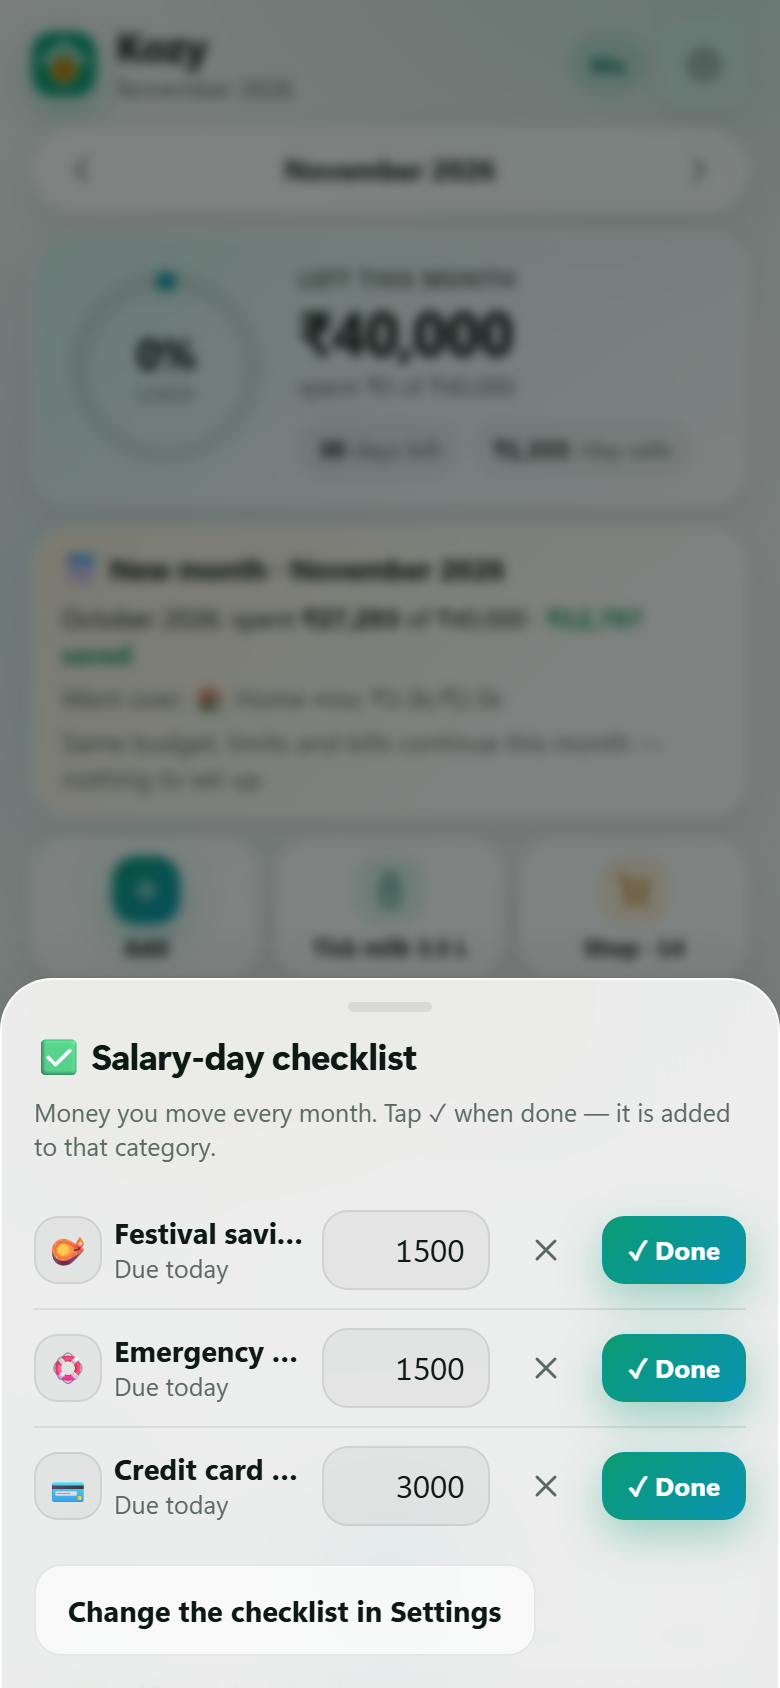
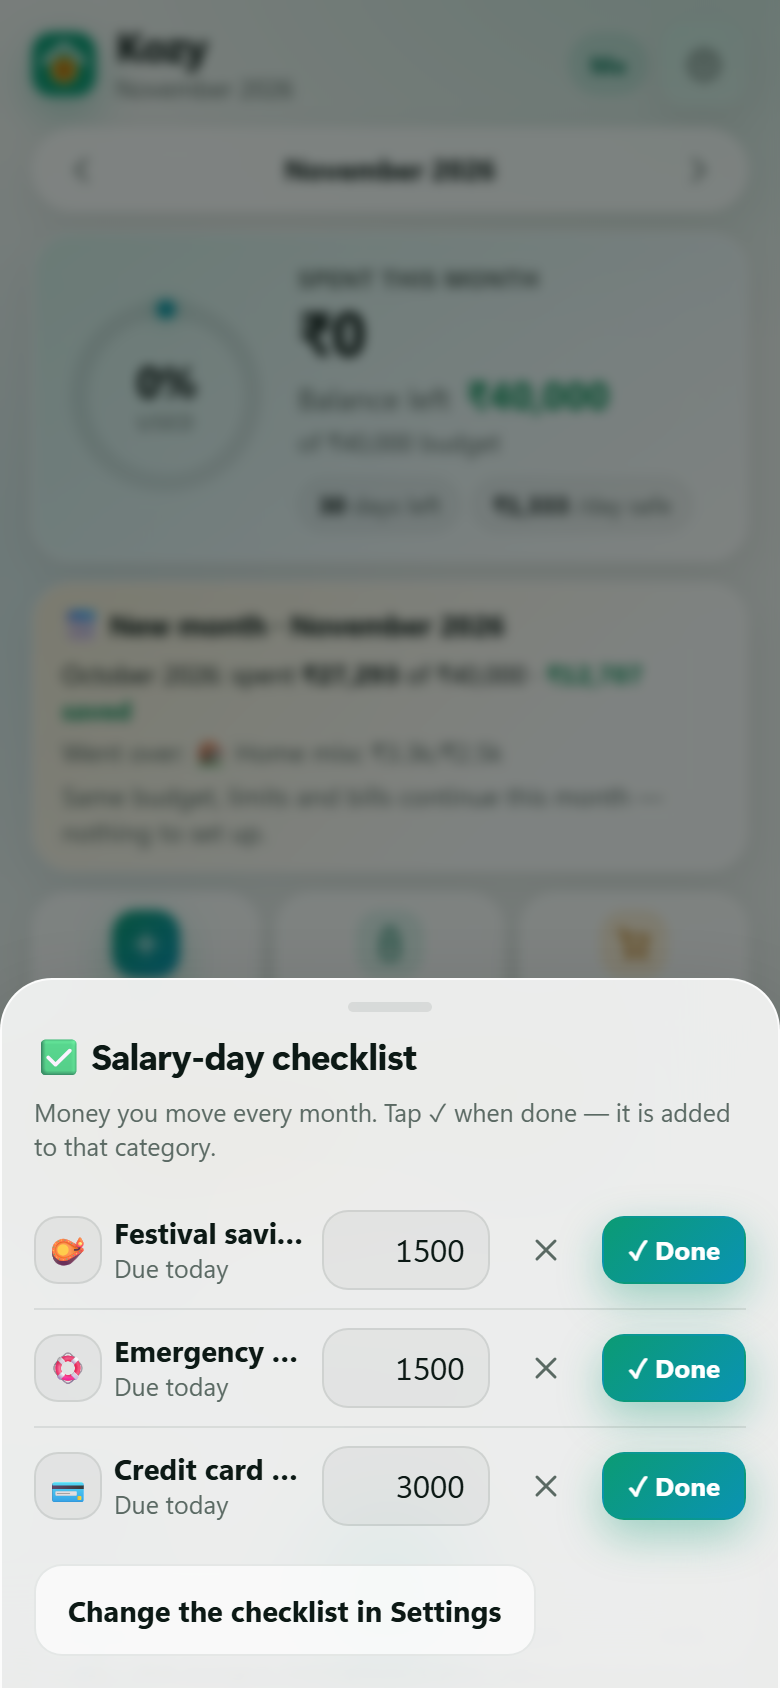
v2.3.0: Home shows spent then balance left; Home milk opens the day screen (Save) instead of auto-ticking; milkman to-pay below the calendar

diff --git a/tests/kozy.spec.js b/tests/kozy.spec.js
@@ -90,11 +90,15 @@ test('home: previous / next month, then back to this month; no scan option anywh
   await expect(page.locator('[data-test="home-month"]')).toContainText('October 2026');
   await page.locator('[data-test="home-month"] [data-act="hmonth-prev"]').click();
   await expect(page.locator('[data-test="home-month"]')).toContainText('September 2026');
-  await expect(page.locator('.hero .label')).toHaveText('Saved in September 2026');
+  await expect(page.locator('.hero .label')).toHaveText('Spent in September 2026');
+  await expect(page.locator('[data-test="left-label"]')).toHaveText('Saved');
+  await expect(page.locator('[data-test="spent"]')).toHaveText('₹0');
   await expect(page.locator('[data-test="left"]')).toHaveText('₹40,000'); // nothing spent in September
   await expect(page.locator('[data-test="days-left"]')).toHaveCount(0);
   await page.locator('[data-test="home-month"] [data-act="hmonth-next"]').click();
-  await expect(page.locator('.hero .label')).toHaveText('Left this month');
+  await expect(page.locator('.hero .label')).toHaveText('Spent this month');
+  await expect(page.locator('[data-test="left-label"]')).toHaveText('Balance left');
+  await expect(page.locator('[data-test="spent"]')).toHaveText('₹250');
   await expect(page.locator('[data-test="left"]')).toHaveText('₹39,750');
   // leaving Home and coming back starts on this month again
   await page.locator('[data-test="home-month"] [data-act="hmonth-prev"]').click();
@@ -613,7 +617,9 @@ test('edit any entry: kitchen purchase, sabzi price, Today pill, Recent rows (sp
 
   // Recent on Home: tap rows to edit
   await go(page, T, 'home');
-  await page.locator('[data-test="chip-milk"]').click();
+  await page.locator('[data-test="chip-milk"]').click(); // opens the milk screen; nothing is logged until Save
+  await expect(page.locator('[data-test="milk-day"]')).toBeVisible();
+  await page.locator('[data-test="milk-day"] [data-save]').click();
   await addSpend(page, 150, 'Home misc', 'Cash', 'Tape');
   await page.locator('[data-test="recent"] [data-open="spend"]').first().click();
   await expect(page.locator('.sheet .sheet-title')).toHaveText('Edit spend');
@@ -740,4 +746,40 @@ test('next month: new-month card on the 1st, limits from usual spend, unpaid mil
   await page.locator('[data-test="use-usual"]').click();
   const travel = page.locator('.limit-row', { has: page.locator('input[value="Office travel"]') }).locator('input[name="limit"]');
   expect(Number(await travel.inputValue())).not.toBe(5000);
+});
+
+test('home v2.3: spent on top with balance below; milk opens the day screen (no auto-tick); to-pay sits below the calendar', async ({ page }) => {
+  await fresh(page, T, 'home');
+  await addSpend(page, 1000, 'Home misc', 'Cash', 'Bulbs');
+  await expect(page.locator('[data-test="spent"]')).toHaveText('₹1,000');
+  await expect(page.locator('[data-test="left"]')).toHaveText('₹39,000');
+  // spent is above the balance line
+  const ys = await page.evaluate(() => [document.querySelector('[data-test="spent"]'), document.querySelector('[data-test="left"]')].map((e) => e.getBoundingClientRect().top));
+  expect(ys[0]).toBeLessThan(ys[1]);
+
+  // milk: one tap opens the screen, NOTHING is saved yet
+  await expect(page.locator('[data-test="chip-milk"]')).toContainText('Log milk');
+  await page.locator('[data-test="chip-milk"]').click();
+  const day = page.locator('[data-test="milk-day"]');
+  await expect(day).toBeVisible();
+  await expect(day.locator('[data-day-total]')).toContainText('3.5 L');
+  expect(await page.evaluate(async () => (await import('/js/store.js')).list('milk').length)).toBe(0);
+  // change an amount: the total follows, then Save
+  await day.locator('[name="l-cow"]').fill('2');
+  await expect(day.locator('[data-day-total]')).toContainText('4 L');
+  await day.locator('[data-save]').click();
+  await expect(page.locator('[data-test="chip-milk"]')).toContainText('Milk ✓ 4 L');
+  // tap again → same screen with today's saved amounts, to change and save
+  await page.locator('[data-test="chip-milk"]').click();
+  await expect(day.locator('[name="l-cow"]')).toHaveValue('2');
+  await day.locator('[name="l-cow"]').fill('1.5');
+  await day.locator('[data-save]').click();
+  await expect(page.locator('[data-test="chip-milk"]')).toContainText('Milk ✓ 3.5 L');
+
+  // Milk screen: the amount to pay is BELOW the calendar
+  await go(page, T, 'milk');
+  const pos = await page.evaluate(() => [document.querySelector('[data-test="calendar"]'), document.querySelector('[data-test="milk-balance"]')].map((e) => e.getBoundingClientRect().top));
+  expect(pos[0]).toBeLessThan(pos[1]);
+  await expect(page.locator('[data-test="milk-due"]')).toBeVisible();
+  await expect(page.locator('.top .sub')).toContainText('to pay');
 });

diff --git a/js/views/milk.js b/js/views/milk.js
@@ -63,6 +63,7 @@ function wireStepper(el) {
   el.querySelectorAll('[data-step]').forEach((b) => b.addEventListener('click', () => {
     const inp = b.parentElement.querySelector('input');
     inp.value = Math.max(0, Math.round(((Number(inp.value) || 0) + Number(b.dataset.step)) * 100) / 100);
+    inp.dispatchEvent(new Event('input', { bubbles: true })); // so the day total updates
   }));
 }
 
@@ -97,6 +98,7 @@ export function render() {
   const td = milk.day(t);
   const m = milk.month(state.mk);
   const w = store.canWrite();
+  const toPay = milk.ledger().balance;
 
   const first = parse(`${state.mk}-01`).getDay(); // 0 = Sunday
   const lead = (first + 6) % 7; // Monday first
@@ -112,7 +114,7 @@ export function render() {
   }
 
   return `
-  ${header('Milk log', `${milk.defaultLabel()} · ${money(s.perDay)}/day`)}
+  ${header('Milk log', `${milk.defaultLabel()} · ${money(s.perDay)}/day${toPay > 0 ? ` · to pay ${money(toPay)}` : ''}`)}
 
   ${!s.asked && store.isOwner() ? `
   <section class="card setup" data-test="milk-setup">
@@ -138,14 +140,14 @@ export function render() {
       </div>` : '<p class="muted">Today: not logged yet</p>'}`}
   </section>
 
-  ${balanceCard(w)}
-
   ${monthSwitch(state.mk)}
   <section class="card">
     <div class="cal-head">${['M', 'T', 'W', 'T', 'F', 'S', 'S'].map((d) => `<span>${d}</span>`).join('')}</div>
     <div class="cal" data-test="calendar">${cells.join('')}</div>
     <div class="cal-legend small muted"><span><i class="lg got"></i> got milk</span><span><i class="lg skip"></i> skipped</span><span>Tap a day to change</span></div>
   </section>
+
+  ${balanceCard(w)}
 
   <section class="card" data-test="milk-total">
     <div class="sum3">
@@ -169,7 +171,8 @@ export function openMilkDay(date) {
       <h2 class="sheet-title">Milk · ${dayLabel(date)}</h2>
       ${list.map((t) => `<div class="mday-row"><span class="mday-name">${t.emoji} ${esc(t.name)}<span class="muted small block">${money(t.rate)}/L</span></span>
         ${stepper(`l-${t.id}`, start[t.id] ?? 0)}</div>`).join('')}
-      <button class="btn primary" type="submit">${icon('check')} Save</button>
+      <p class="day-total" data-day-total aria-live="polite"></p>
+      <button class="btn primary" type="submit" data-save>${icon('check')} Save</button>
       <div class="row gap">
         <button type="button" class="btn ghost grow" data-skip>Skip this day</button>
         ${d ? '<button type="button" class="btn ghost grow danger-text" data-clear>Clear</button>' : ''}
@@ -177,6 +180,14 @@ export function openMilkDay(date) {
     </form>`);
   wireStepper(el);
   const f = el.querySelector('form');
+  const totalEl = el.querySelector('[data-day-total]');
+  const showTotal = () => {
+    let l = 0; let c = 0;
+    for (const t of list) { const v = Number(f[`l-${t.id}`].value) || 0; l += v; c += v * Number(t.rate || 0); }
+    totalEl.innerHTML = `Today: <b>${number(l)} L</b> · <b>${money(c)}</b>`;
+  };
+  f.addEventListener('input', showTotal);
+  showTotal();
   f.addEventListener('submit', async (ev) => {
     ev.preventDefault();
     const amounts = Object.fromEntries(list.map((t) => [t.id, Number(f[`l-${t.id}`].value) || 0]));

diff --git a/js/views/home.js b/js/views/home.js
@@ -42,9 +42,12 @@ function quickActions() {
   const md = milk.day(t);
   const w = store.canWrite();
   const shopN = shoppingList().length;
-  const milkBtn = !md
-    ? `<button class="qa-btn" data-act="milk-tick" data-test="chip-milk" ${w ? '' : 'disabled'}><span class="qa-ic">${icon('milk')}</span><span class="qa-t">Tick milk ${number(milk.settings().litres)} L</span></button>`
-    : `<a class="qa-btn done" href="#/milk" data-test="chip-milk"><span class="qa-ic">${icon('check')}</span><span class="qa-t">${md.skip ? 'Milk skipped' : `Milk ✓ ${number(md.litres)} L`}</span></a>`;
+  // One tap opens today's milk screen (amounts per milk, Save). It never logs by itself.
+  const mIcon = md ? icon('check') : icon('milk');
+  const mText = md ? (md.skip ? 'Milk skipped' : `Milk ✓ ${number(milk.dayLitres(md))} L`) : `Log milk ${number(milk.settings().litres)} L`;
+  const milkBtn = w
+    ? `<button class="qa-btn ${md ? 'done' : ''}" data-act="milk-open" data-test="chip-milk"><span class="qa-ic">${mIcon}</span><span class="qa-t">${mText}</span></button>`
+    : `<a class="qa-btn ${md ? 'done' : ''}" href="#/milk" data-test="chip-milk"><span class="qa-ic">${mIcon}</span><span class="qa-t">${mText}</span></a>`;
   return `<section class="qa" data-test="quick">
     <button class="qa-btn primary" data-act="qa-add" ${w ? '' : 'disabled'}><span class="qa-ic">${icon('plus')}</span><span class="qa-t">Add</span></button>
     ${milkBtn}
@@ -102,9 +105,10 @@ export function render() {
   <section class="card hero ${s.left < 0 ? 'neg' : ''}" data-test="hero">
     ${gauge(s.spent, s.limit, overallLvl)}
     <div class="hero-main">
-      <p class="label">${isNow ? 'Left this month' : s.left >= 0 ? `Saved in ${monthName(mk)}` : `Over in ${monthName(mk)}`}</p>
-      <p class="big" data-test="left">${money(isNow ? s.left : Math.abs(s.left))}</p>
-      <p class="hero-sub">spent ${money(s.spent)} of ${money(s.limit)}</p>
+      <p class="label">${isNow ? 'Spent this month' : `Spent in ${monthName(mk)}`}</p>
+      <p class="big" data-test="spent">${money(s.spent)}</p>
+      <p class="hero-left"><span data-test="left-label">${isNow ? 'Balance left' : s.left >= 0 ? 'Saved' : 'Over by'}</span> <b data-test="left">${money(isNow ? s.left : Math.abs(s.left))}</b></p>
+      <p class="hero-sub">of ${money(s.limit)} budget</p>
       ${isNow ? `<div class="hero-stats">
         <span><b data-test="days-left">${s.daysLeft}</b> days left</span>
         <span><b data-test="safe-daily">${money(s.safeDaily)}</b> /day safe</span>
@@ -193,10 +197,6 @@ export function bind(root, rerender) {
     else if (act === 'checklist') billsSheet('checklist');
     else if (act === 'qa-add') openSpendSheet();
     else if (act === 'activity') activitySheet();
-    else if (act === 'milk-tick') {
-      bump(t);
-      await milk.tickToday();
-      toast(`Milk ${milk.defaultLabel()} logged ✓`, { action: { label: 'Change', fn: async () => { const m = await import('./milk.js'); m.openMilkDay(today()); } } });
-    }
+    else if (act === 'milk-open') { const m = await import('./milk.js'); m.openMilkDay(today()); }
   });
 }

diff --git a/css/app.css b/css/app.css
@@ -678,3 +678,10 @@ body.role-viewer .fab { visibility: hidden; }
 .member:first-child { border-top: 0; }
 .role-sel { width: auto; min-height: 44px; padding: 0 8px; }
 .mono { font-family: ui-monospace, Menlo, Consolas, monospace; letter-spacing: .06em; font-size: 16px; }
+
+/* v2.3 home: spent big, balance below; milk day total */
+.hero-left { display: flex; align-items: baseline; gap: 8px; margin-top: 4px; font-size: 15px; color: var(--muted); }
+.hero-left b { font: 780 20px/1.1 var(--font-display); letter-spacing: -.02em; color: var(--ok); }
+.hero.neg .hero-left b { color: var(--over); }
+.hero.neg .big { color: var(--text); }
+.day-total { font-size: 14px; text-align: center; padding: 8px; border-radius: 12px; background: var(--surface-2); border: 1px solid var(--line); }

diff --git a/sw.js b/sw.js
@@ -1,7 +1,7 @@
 // Kozy service worker — makes the app open with no internet.
 // Strategy: network first for our own files (so updates show up), cache as fallback (offline).
 // Bump VERSION when files change so old caches are cleaned.
-const VERSION = 'kozy-v2.2.1';
+const VERSION = 'kozy-v2.3.0';
 const SHELL = [
   './',
   'index.html',

diff --git a/js/config.js b/js/config.js
@@ -44,4 +44,4 @@ export const LOCAL_PREVIEW_USERS = {
   viewer: { label: 'Viewer', role: 'viewer' },
 };
 
-export const APP_VERSION = '2.2.1';
+export const APP_VERSION = '2.3.0';

diff --git a/DECISIONS.md b/DECISIONS.md
@@ -154,3 +154,13 @@ Some replace v1 decisions above (marked ♻).
 | 97 | **Milk bill is paid "for a month".** Pay sheet has "For the bill of <month>" (oldest unpaid pre-filled); the money is a Milk spend counted in the budget on the day it is paid (Nov 1 pay for October → November's budget). Milk screen shows each month: bill · paid · left. Payments with no month (older data) fill the oldest unpaid month first. | October's bill is paid on 1 Nov; you want to see "October paid" and still have it in November's cash. |
 | 98 | **"Bought separately"** (milk-extra) on the Milk screen: a Milk spend that counts in the budget but is NOT a payment to the milkman. Extra litres from the milkman still go through the day editor (+/−) into that month's bill. | A shop packet used to reduce what was owed to the milkman by mistake. |
 | 96 | **Settings → Account → Set a password** for Google accounts (same account, same data): then email + password also works in the iPhone Home Screen app. The Home Screen login screen tells you how. | Google can't sign in inside the Home Screen app, so a Google account needs a password to use it there. |
+
+---
+
+## v2.3 (3 Nov) — Home + Milk tweaks
+
+| # | Decision | Why |
+|---|---|---|
+| 97 | **Home hero**: big number = **Spent this month**; **Balance left** sits right below it (green, red when over). Past months show "Spent in <month>" + "Saved" / "Over by". | Asked: spent first, balance under it. |
+| 98 | **Milk on Home never logs by itself.** Tap opens today's milk screen (usual amounts filled in, a live "Today: 3.5 L · ₹223" line, Save). Tap again later to change and Save. Viewers get a link to the Milk screen. The Milk screen's own one-tap button is unchanged. | Asked: open details, then Save, easy to change. |
+| 99 | **Milk screen order**: today → month → calendar → **To pay (milkman)** → month totals. The header also says "to pay ₹X". | Asked: the amount to pay below the calendar. |
